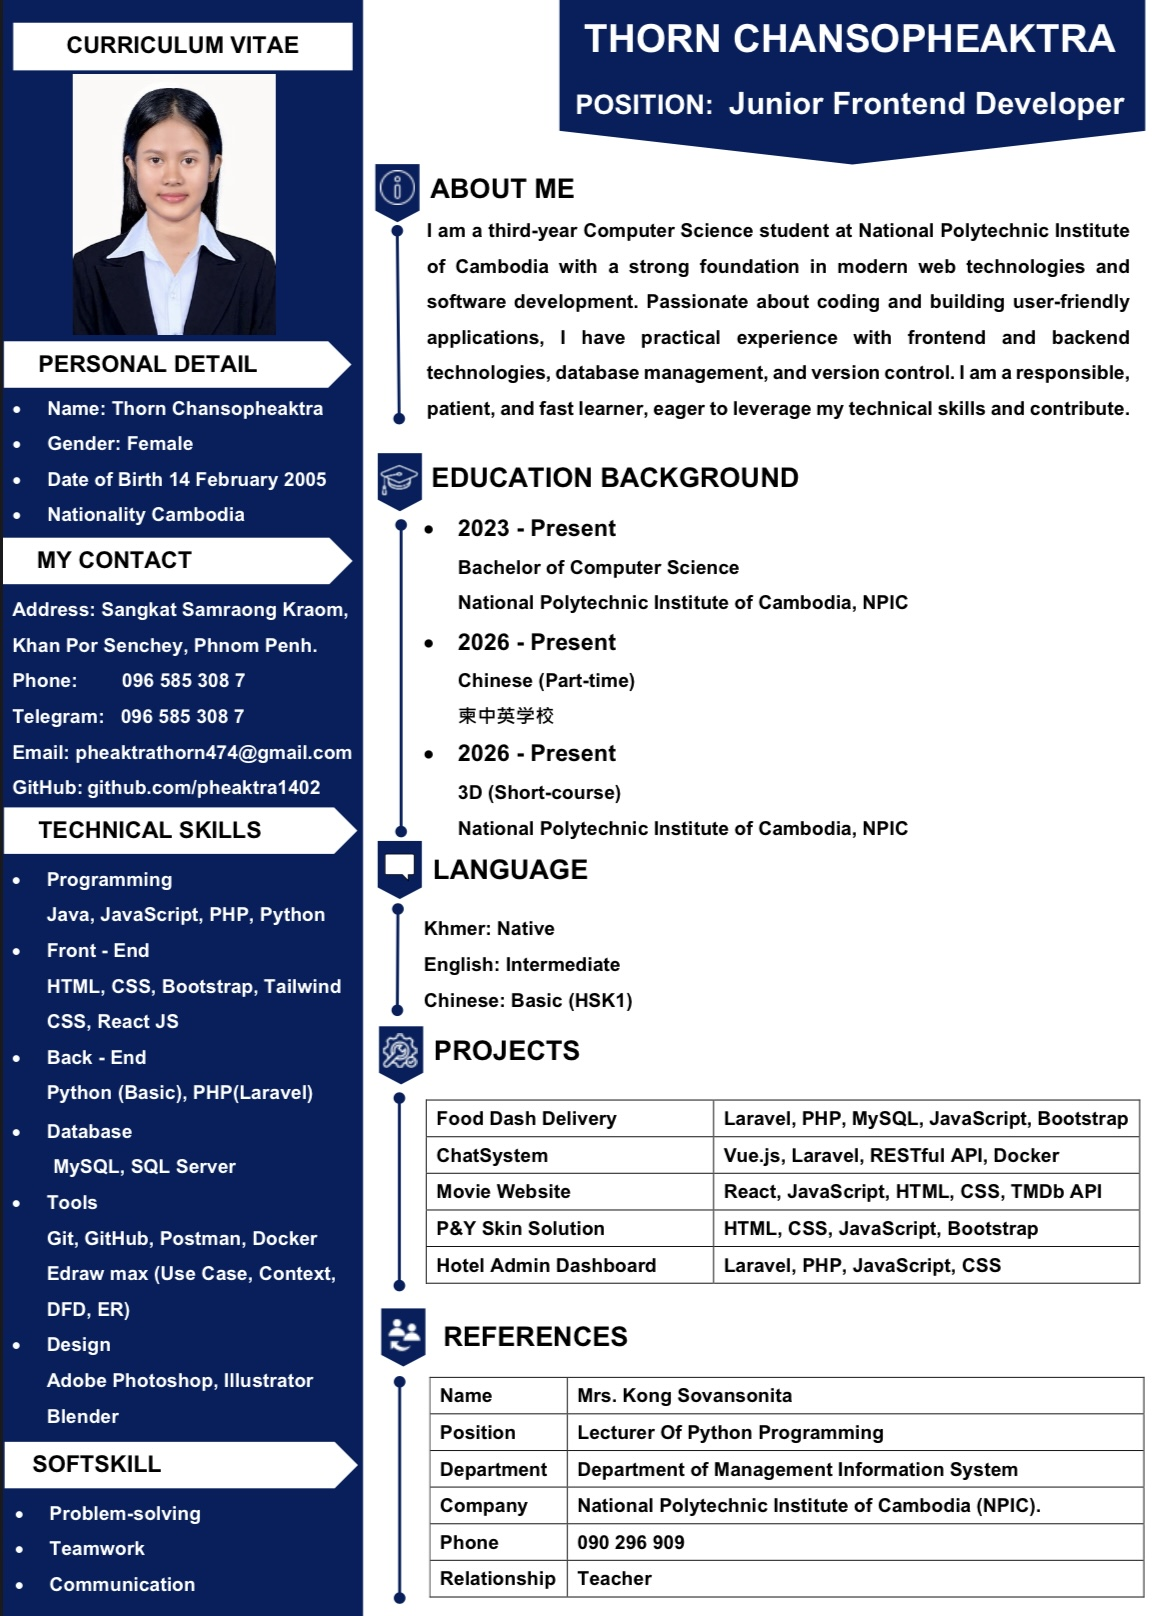
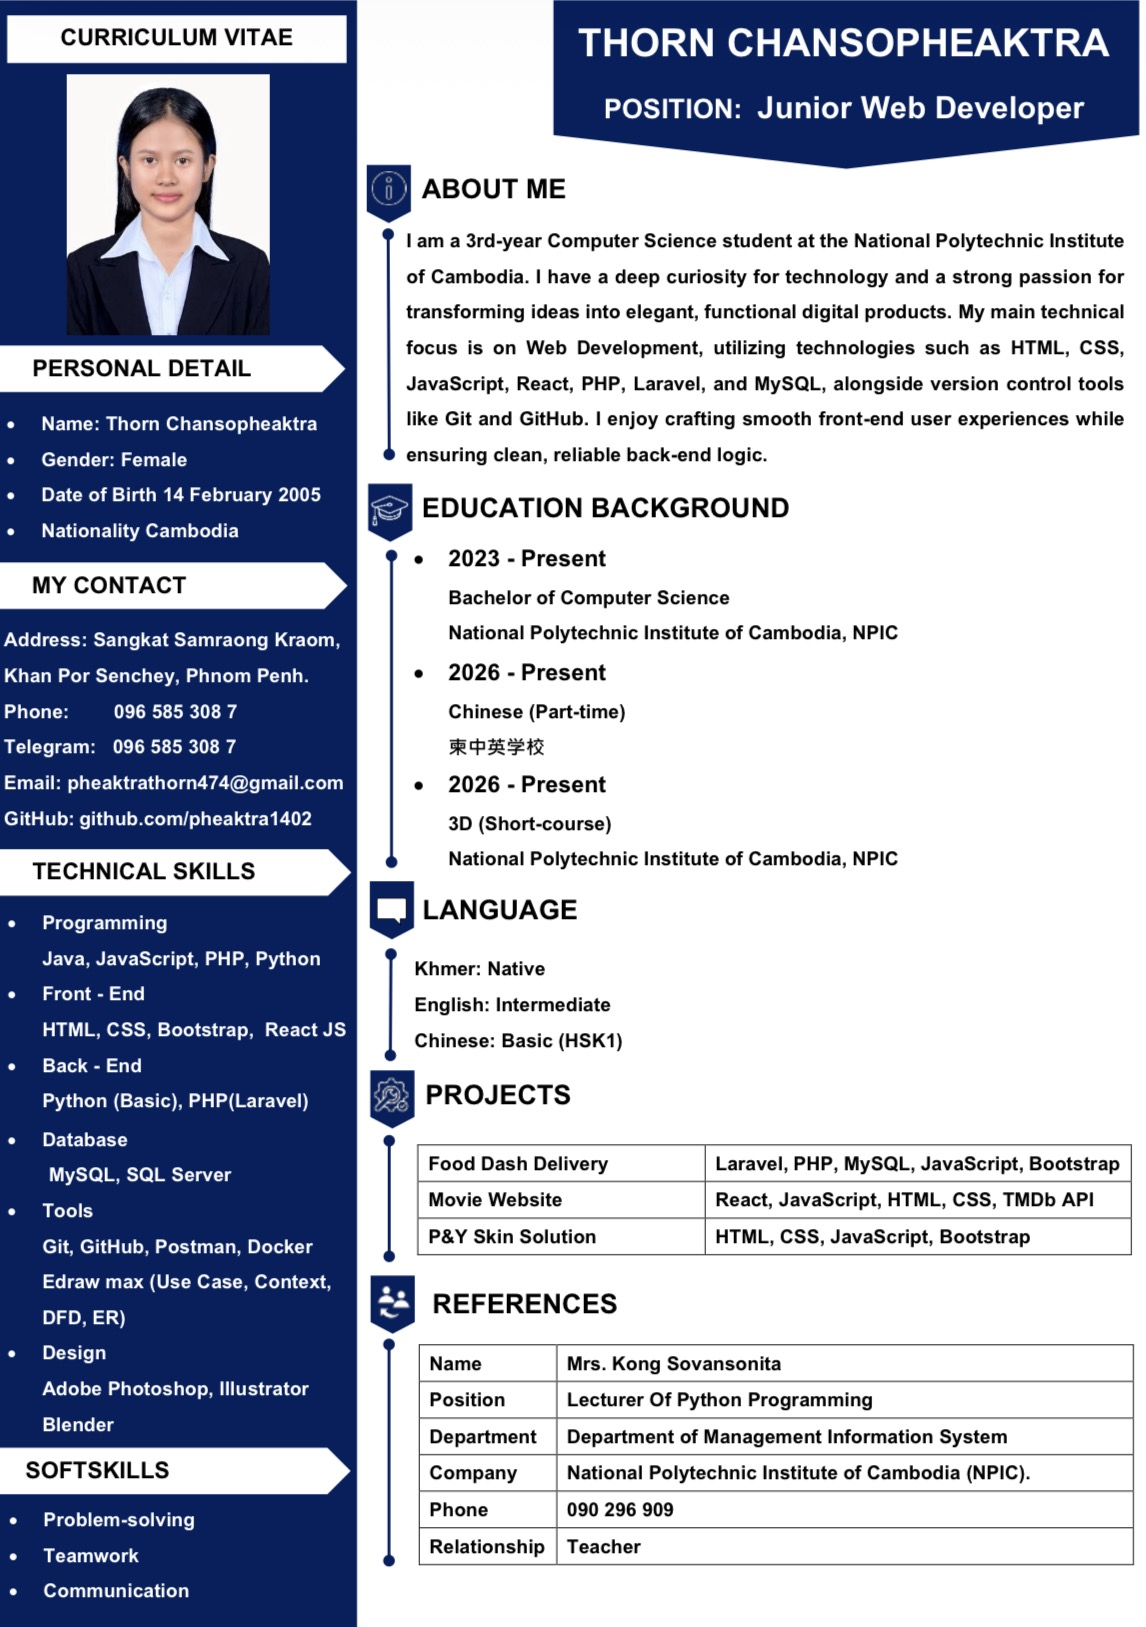
update cv

Changed region(s): [[0.0, 0.0, 1.0, 1.0], [0.6108, 0.6807, 1.0, 0.8045], [0.4581, 0.0, 0.9773, 0.0928]]

diff --git a/src/components/Hero.jsx b/src/components/Hero.jsx
@@ -14,11 +14,6 @@ function Hero() {
       <div className="hero-container">
         {/* Left Side: Content */}
         <div className="hero-content">
-          {/* <div className="hero-badge">
-            <span className="status-dot"></span>
-            Available for Internship & Projects
-          </div> */}
-
           <span className="hero-greeting">Hello, I'm</span>
           <h1 className="hero-name">
             Thorn <span className="gradient-text">Chansopheaktra</span>
